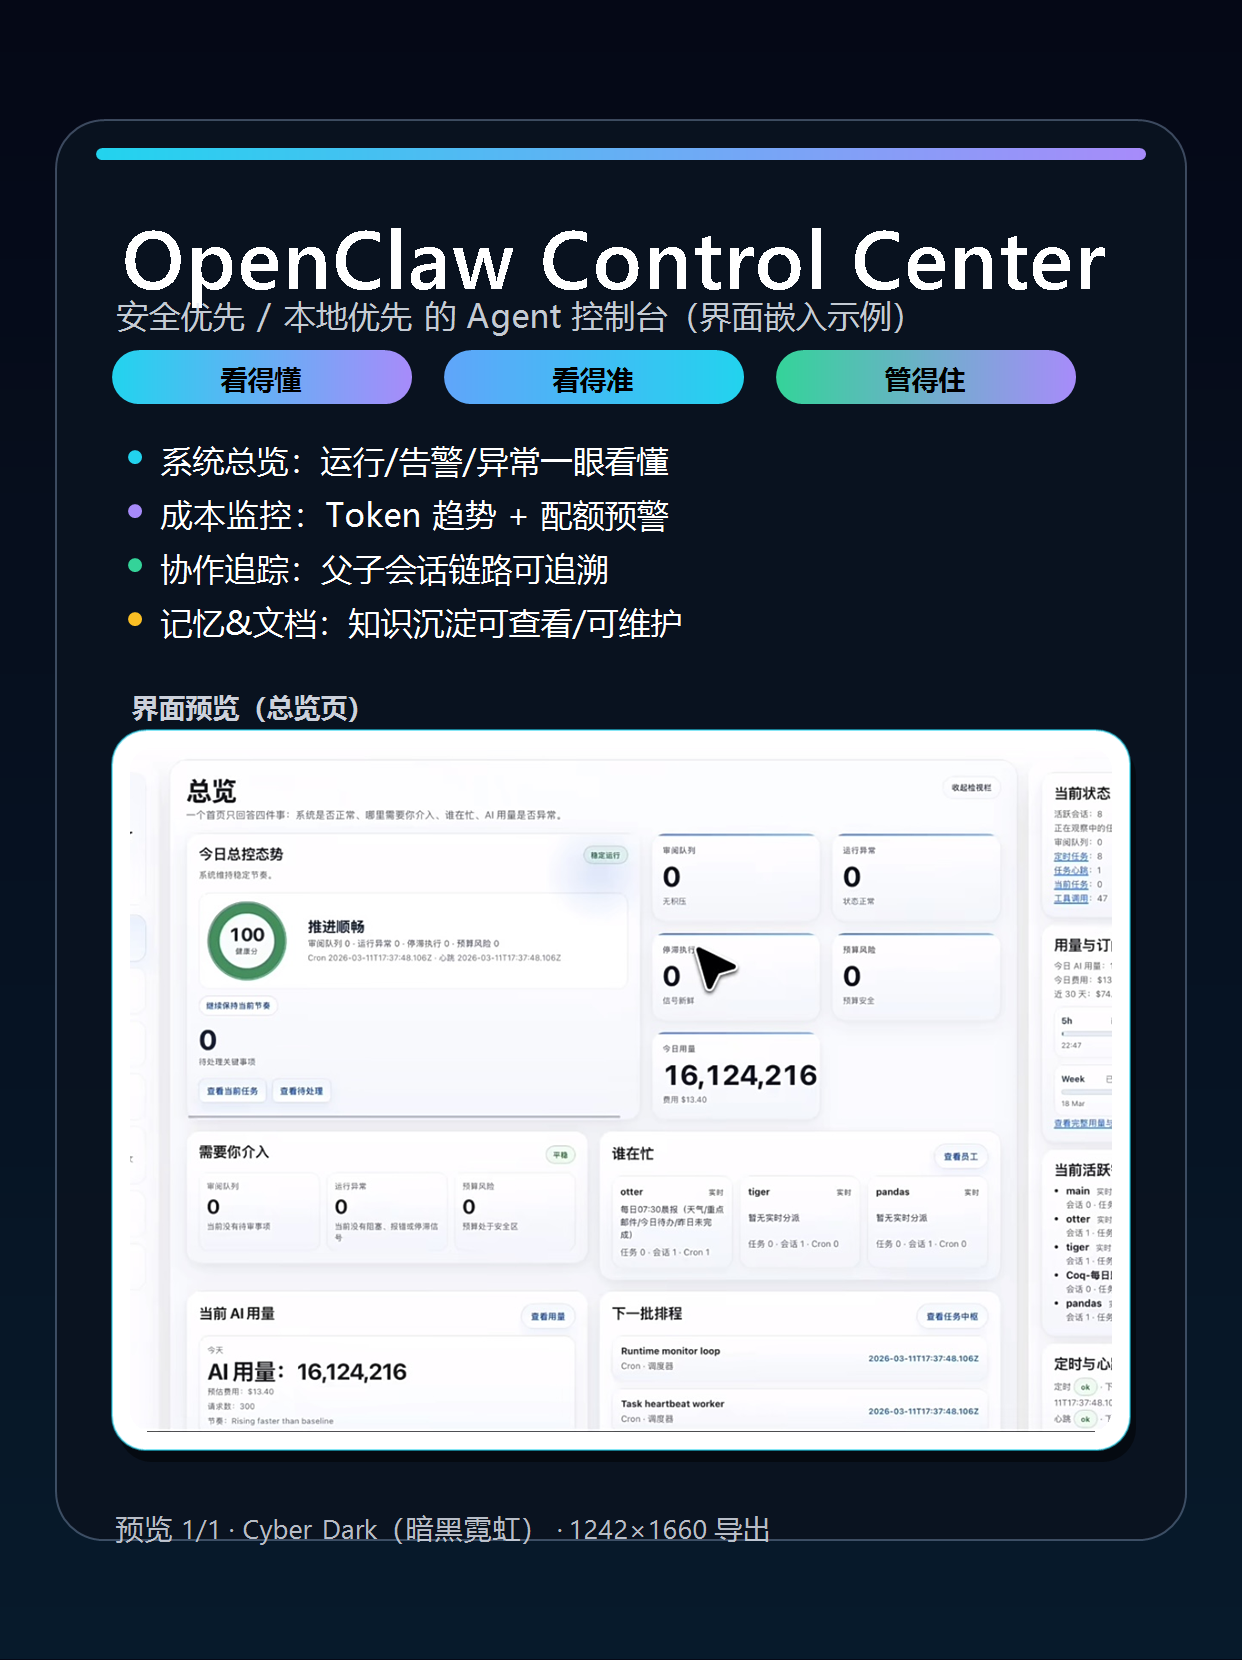
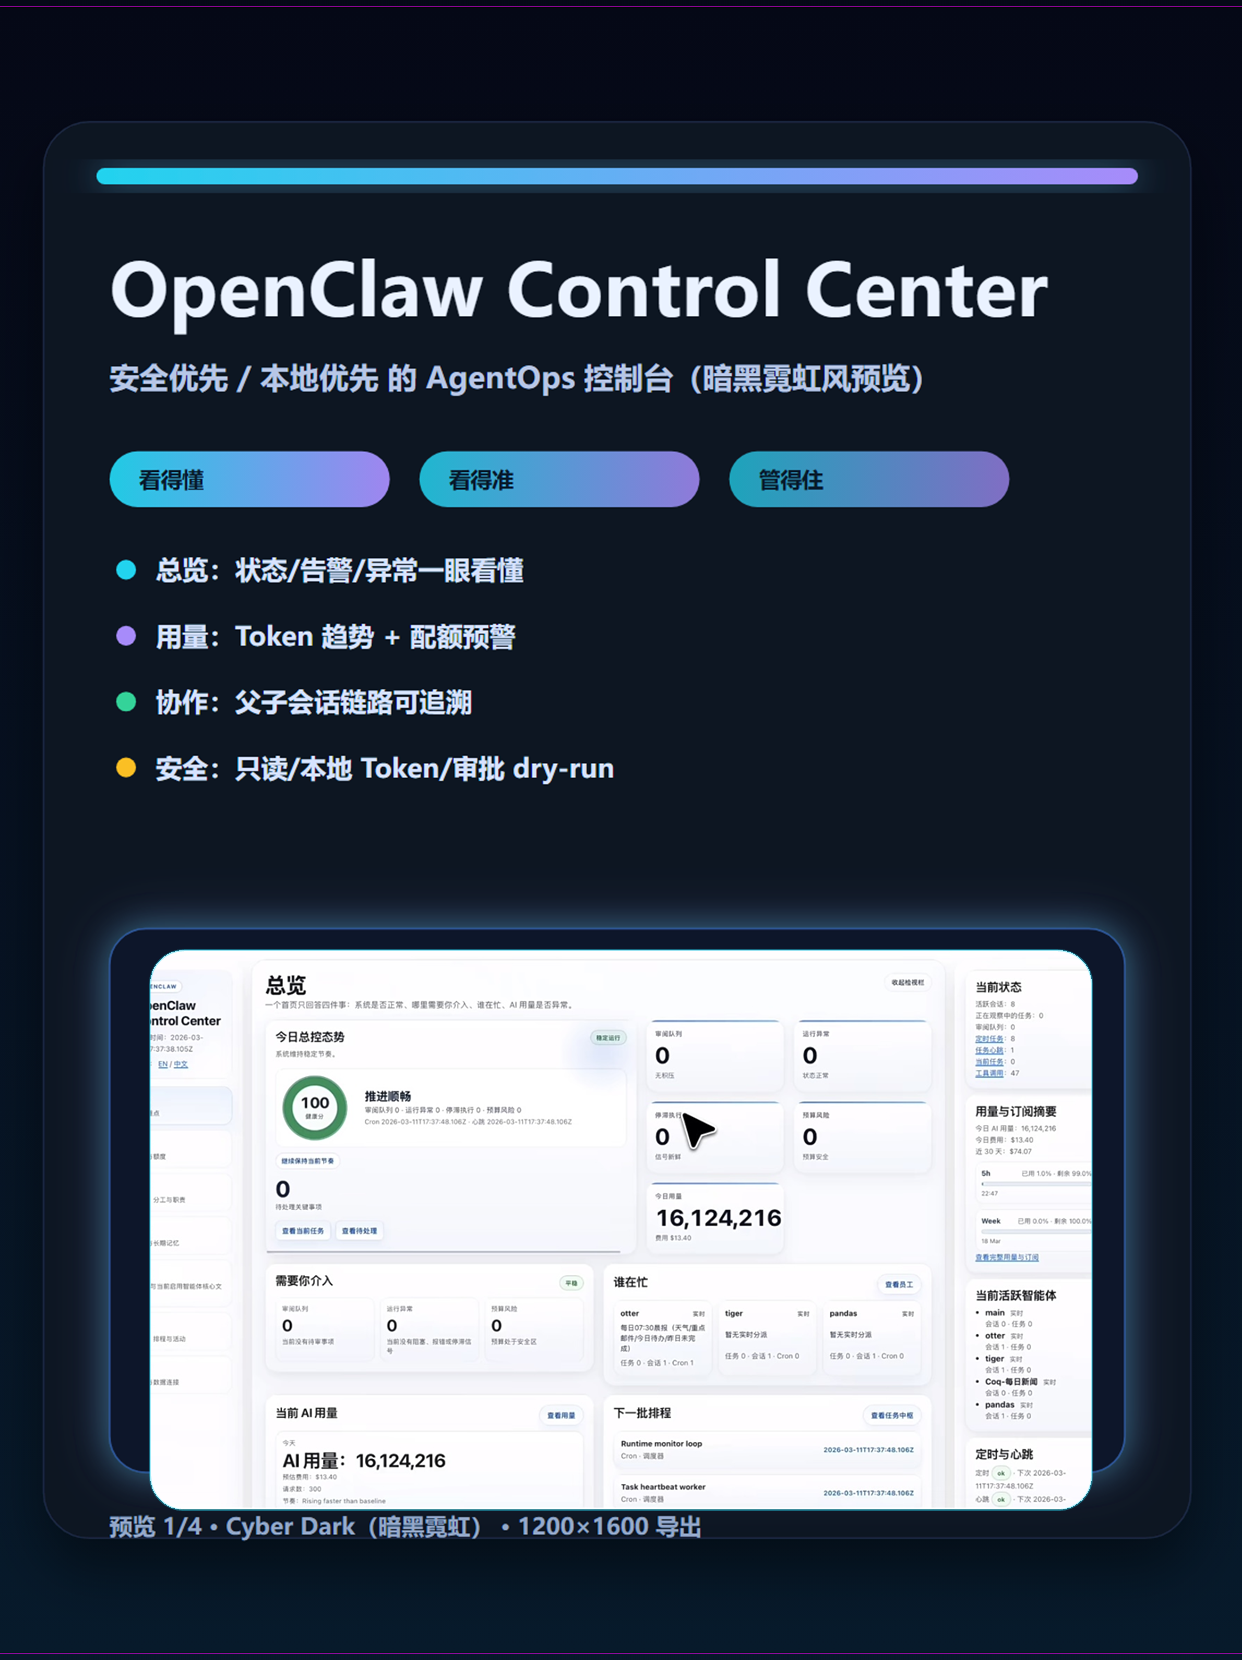
Regenerate cyber dark embedded UI demo image

diff --git a/README.md b/README.md
@@ -23,7 +23,7 @@
 
 嵌入到封面卡片中的效果示例（自动铺满无留白）：
 
-![](assets/demo/demo_card_embed_example.png)
+![](assets/demo/demo_card_embed_cyber_dark.png)
 
 ## 目录说明
 - `SKILL.md`：Skill 工作流与卡片规范（包含“先选风格”与“满铺无留白”要求）
